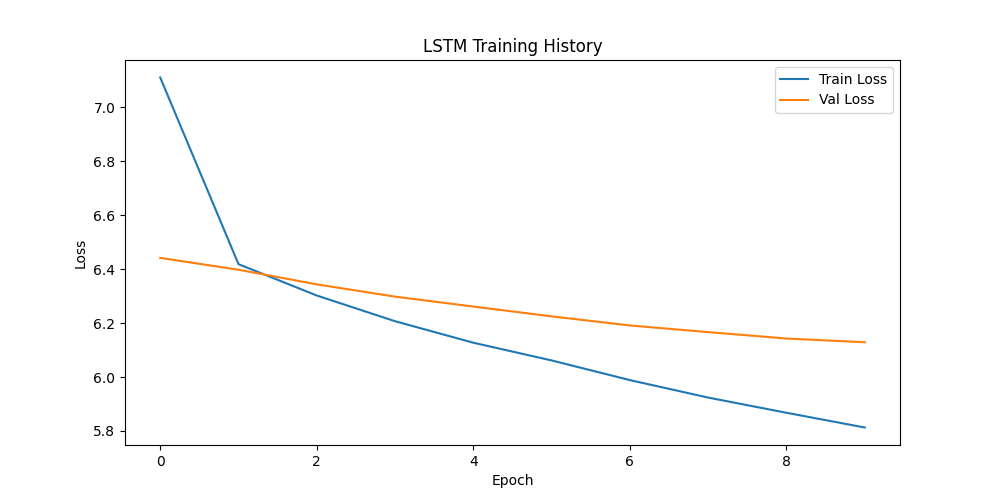
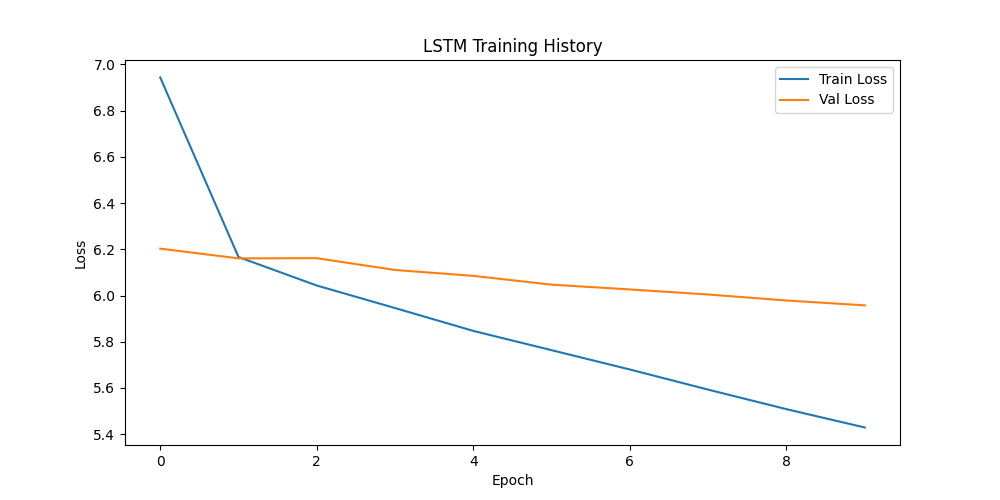
go

diff --git a/evaluation.py b/evaluation.py
@@ -1,44 +1,70 @@
 import torch
 import os
+import json
+from datetime import datetime
 from models import TranslationModel, LSTM, Peehole, WMC, StackedLSTM
 from prepare_data import PrepareData
+from typing import List, Dict, Tuple
 
 
-def translate_sentence(model, sentence, word_eng, word_darija, device, max_len=15):
+def translate_sentence(model, sentence, word_eng, word_darija, device, max_len=15, temperature=0.8):
     model.eval()
 
-    # Prepare input
-    tokens = sentence.lower().split()
-    indices = [word_eng.get(token, word_eng['<UNK>']) for token in tokens]
-    indices = [word_eng['<START>']] + indices + [word_eng['<END>']]
+    # Prepare input with better unknown word handling
+    tokens = ['<START>'] + sentence.lower().split() + ['<END>']
+    indices = []
+    for token in tokens:
+        if token in ['<START>', '<END>']:
+            indices.append(word_eng[token])
+        else:
+            # Handle unknown words better by checking subwords or using UNK
+            indices.append(word_eng.get(token, word_eng['<UNK>']))
+
+    # Pad sequence properly
     if len(indices) < max_len:
         indices += [word_eng['<PAD>']] * (max_len - len(indices))
+    else:
+        indices = indices[:max_len]
+
     src_tensor = torch.LongTensor([indices]).to(device)
 
     translation = []
     with torch.no_grad():
-        # Get encoder output
-        _, encoder_states = model.encoder(src_tensor)
+        # Get encoder output and handle states properly
+        encoder_outputs, encoder_states = model.encoder(src_tensor)
 
-        # Decode step by step
-        decoder_input = torch.tensor([[2]], device=device)  # START token
-        decoder_states = encoder_states
+        if isinstance(model.encoder.lstm, StackedLSTM):
+            decoder_states = encoder_states
+        else:
+            # For other LSTM types, ensure proper state format
+            h_n, c_n = encoder_states
+            decoder_states = (h_n, c_n)
+
+        # Initialize decoder input
+        decoder_input = torch.tensor([[word_darija['<START>']]], device=device)
 
         for _ in range(max_len):
-            # Get prediction
+            # Get prediction with temperature sampling
             prediction, decoder_states = model.decoder(decoder_input, decoder_states)
 
-            # Get best word
-            word_idx = prediction.argmax(dim=1).item()
+            # Apply temperature to logits
+            prediction = prediction / temperature
+            probs = torch.softmax(prediction, dim=1)
+
+            # Sample from the distribution
+            word_idx = torch.multinomial(probs, 1).item()
 
             # Stop if END token
-            if word_idx == 3:  # END token
+            if word_idx == word_darija['<END>']:
                 break
 
-            # PAD, UNK, START, END tokens
-            if word_idx > 3:  # Skip PAD, UNK, START, END
-                word = list(word_darija.keys())[list(word_darija.values()).index(word_idx)]
-                translation.append(word)
+            # Skip special tokens
+            if word_idx in [word_darija['<PAD>'], word_darija['<UNK>'], word_darija['<START>']]:
+                continue
+
+            # Convert index to word
+            word = list(word_darija.keys())[list(word_darija.values()).index(word_idx)]
+            translation.append(word)
 
             # Next input
             decoder_input = torch.tensor([[word_idx]], device=device)
@@ -46,8 +72,80 @@ def translate_sentence(model, sentence, word_eng, word_darija, device, max_len=1
     return ' '.join(translation)
 
 
-def evaluate_models():
+def evaluate_translation(model, test_cases: List[Tuple[str, str]], word_eng: Dict[str, int],
+                         word_darija: Dict[str, int], device: torch.device) -> List[Dict]:
+    """
+    Evaluate translation quality for a set of test cases
+
+    Args:
+        model: The translation model
+        test_cases: List of (input_text, expected_translation) tuples
+        word_eng: English vocabulary dictionary
+        word_darija: Darija vocabulary dictionary
+        device: torch device
+
+    Returns:
+        List of dictionaries containing results for each test case
+    """
+    results = []
+
+    for eng, expected in test_cases:
+        translation = translate_sentence(model, eng, word_eng, word_darija, device)
+
+        # Calculate simple word overlap score
+        expected_words = set(expected.split())
+        translated_words = set(translation.split())
+        overlap = len(expected_words.intersection(translated_words)) / len(expected_words)
+
+        results.append({
+            'input': eng,
+            'expected': expected,
+            'got': translation,
+            'word_overlap': f"{overlap:.2%}"
+        })
+
+    return results
+
+
+def load_model(model_name: str, model_config: Dict, word_eng: Dict[str, int],
+               word_darija: Dict[str, int], device: torch.device) -> TranslationModel:
+    """
+    Load a trained model from checkpoint
+
+    Args:
+        model_name: Name of the model architecture
+        model_config: Configuration dictionary for the model
+        word_eng: English vocabulary dictionary
+        word_darija: Darija vocabulary dictionary
+        device: torch device
+
+    Returns:
+        Loaded model
+    """
+    model = TranslationModel(
+        input_vocab_size=len(word_eng),
+        output_vocab_size=len(word_darija),
+        embedding_dim=model_config['embedding_dim'],
+        hidden_size=model_config['hidden_size'],
+        cell_type=model_config['cell_type'],
+        num_layers=model_config.get('num_layers', 1)
+    ).to(device)
+
+    checkpoint_path = f'checkpoints/{model_name}/best_model.pt'
+    if os.path.exists(checkpoint_path):
+        checkpoint = torch.load(checkpoint_path, map_location=device)
+        model.load_state_dict(checkpoint['model_state_dict'])
+        print(f"Loaded checkpoint for {model_name}")
+    else:
+        print(f"No checkpoint found for {model_name}")
+
+    return model
+
+
+def evaluate_models(test_cases: List[Tuple[str, str]] = None):
+    """Main evaluation function"""
     device = torch.device('cuda' if torch.cuda.is_available() else 'cpu')
+    print(f"Using device: {device}")
 
     # Data preparation
     data_prep = PrepareData()
@@ -60,57 +158,77 @@ def evaluate_models():
     df = data_prep.clean_punctuation(df)
     word_eng, word_darija = data_prep.prepare_vocabularies(df)
 
-    # Use same dimensions as training
-    embedding_dim = 256  # Changed from 64 to match training
+    # Model configurations
+    embedding_dim = 256
     model_configs = {
-        'LSTM': {'hidden_size': 256, 'cell_type': LSTM},  # Changed from 64
-        'Peehole': {'hidden_size': 256, 'cell_type': Peehole},
-        'WMC': {'hidden_size': 256, 'cell_type': WMC},
+        'LSTM': {
+            'embedding_dim': embedding_dim,
+            'hidden_size': 256,
+            'cell_type': LSTM
+        },
+        'Peehole': {
+            'embedding_dim': embedding_dim,
+            'hidden_size': 256,
+            'cell_type': Peehole
+        },
+        'WMC': {
+            'embedding_dim': embedding_dim,
+            'hidden_size': 256,
+            'cell_type': WMC
+        },
         'Stacked_LSTM': {
+            'embedding_dim': embedding_dim,
             'hidden_size': 256,
             'cell_type': StackedLSTM,
             'num_layers': 2
         }
     }
 
-    test_cases = [
-        ("hello how are you", "salam labas"),
-        ("what is your name", "chno smitk"),
-        ("i love you", "kanbghik"),
-        ("good morning", "sba7 lkhir")
-    ]
+    # Default test cases if none provided
+    if test_cases is None:
+        test_cases = [
+            ("They're hiding something, I'm sure", "homa mkhbbyin chi haja, ana mti99en"),
+            ("what is your name", "chno smitk"),
+            ("i love you", "kanbghik"),
+            ("good morning", "sba7 lkhir")
+        ]
 
+    # Create results directory
+    results_dir = "evaluation_results"
+    os.makedirs(results_dir, exist_ok=True)
+
+    # Evaluate each model
+    all_results = {}
     for model_name, config in model_configs.items():
-        print(f"\nTesting {model_name} model:")
+        print(f"\nEvaluating {model_name} model:")
         print("-" * 50)
 
-        # Create model
-        model = TranslationModel(
-            input_vocab_size=len(word_eng),
-            output_vocab_size=len(word_darija),
-            embedding_dim=embedding_dim,
-            hidden_size=config['hidden_size'],
-            cell_type=config['cell_type'],
-            num_layers=config.get('num_layers', 1)
-        ).to(device)
+        # Load model
+        model = load_model(model_name, config, word_eng, word_darija, device)
 
-        # Load trained model
-        checkpoint_path = f'checkpoints/{model_name}/best_model.pt'
-        if os.path.exists(checkpoint_path):
-            checkpoint = torch.load(checkpoint_path, map_location=device)
-            model.load_state_dict(checkpoint['model_state_dict'])
+        # Run evaluation
+        results = evaluate_translation(model, test_cases, word_eng, word_darija, device)
 
-            # Test translations
-            for eng, expected in test_cases:
-                translation = translate_sentence(model, eng, word_eng, word_darija, device)
-                print(f"English: {eng}")
-                print(f"Expected: {expected}")
-                print(f"Got: {translation}\n")
-        else:
-            print(f"No checkpoint found for {model_name}")
+        # Print results
+        for result in results:
+            print(f"Input: {result['input']}")
+            print(f"Expected: {result['expected']}")
+            print(f"Got: {result['got']}")
+            print(f"Word overlap: {result['word_overlap']}\n")
 
+        all_results[model_name] = results
+
+        # Clean up
         del model
         torch.cuda.empty_cache()
+
+    # Save results
+    timestamp = datetime.now().strftime("%Y%m%d_%H%M%S")
+    results_file = os.path.join(results_dir, f"evaluation_results_{timestamp}.json")
+    with open(results_file, 'w', encoding='utf-8') as f:
+        json.dump(all_results, f, indent=2, ensure_ascii=False)
+
+    print(f"\nResults saved to {results_file}")
 
 
 if __name__ == "__main__":

diff --git a/prepare_data.py b/prepare_data.py
@@ -90,7 +90,7 @@ class PrepareData:
         def clean_text(text: str) -> str:
             cleaned_words = []
             for word in text.split():
-                word = word.strip('.,!()[]{}":;')
+                word = word.strip('.,!?()[]{}":;')
                 if word:
                     cleaned_words.append(word)
             return ' '.join(cleaned_words)

diff --git a/train.py b/train.py
@@ -13,7 +13,7 @@ class Trainer:
             model,
             train_loader,
             val_loader,
-            learning_rate=0.0001,  # Reduced from 0.001
+            learning_rate=0.01,
             device='cuda'
     ):
         self.model = model.to(device)

diff --git a/main.py b/main.py
@@ -17,7 +17,7 @@ def train_specific_model(model_name, model, train_loader, val_loader, embedding_
     )
 
     train_losses, val_losses = trainer.train(
-        num_epochs=10,
+        num_epochs=20,
         save_dir=f'checkpoints/{model_name}'
     )
 
